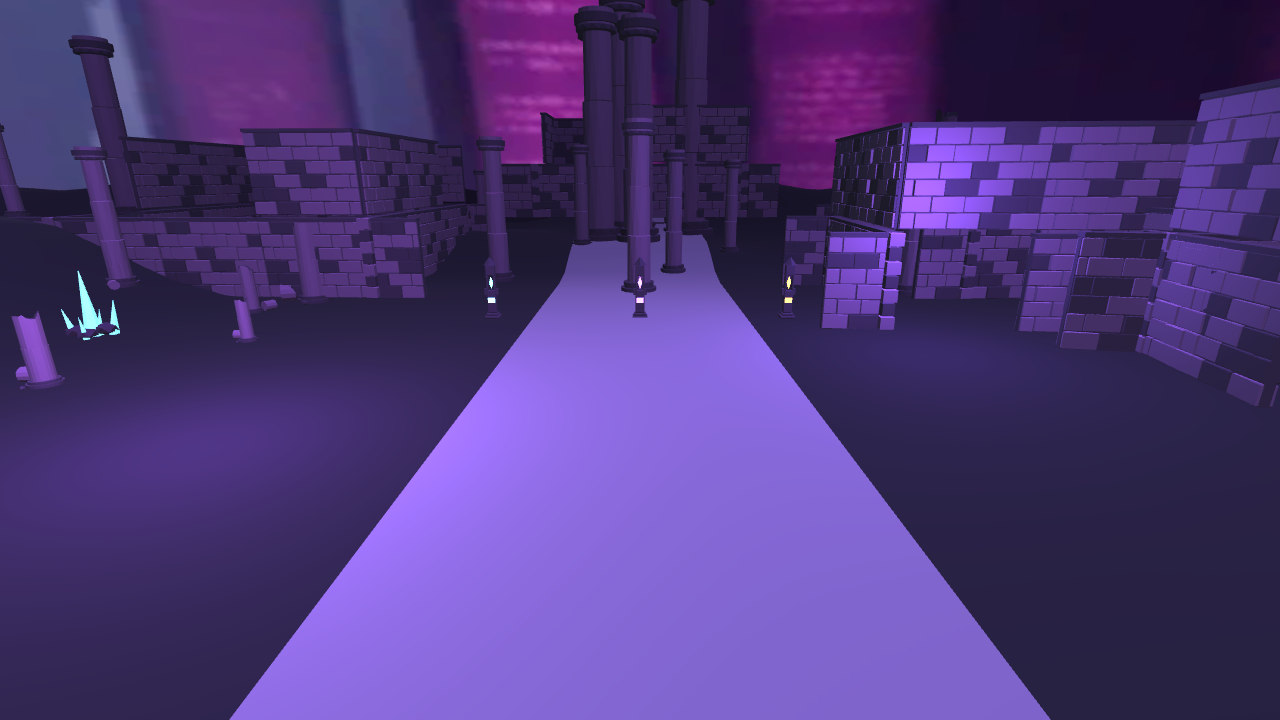
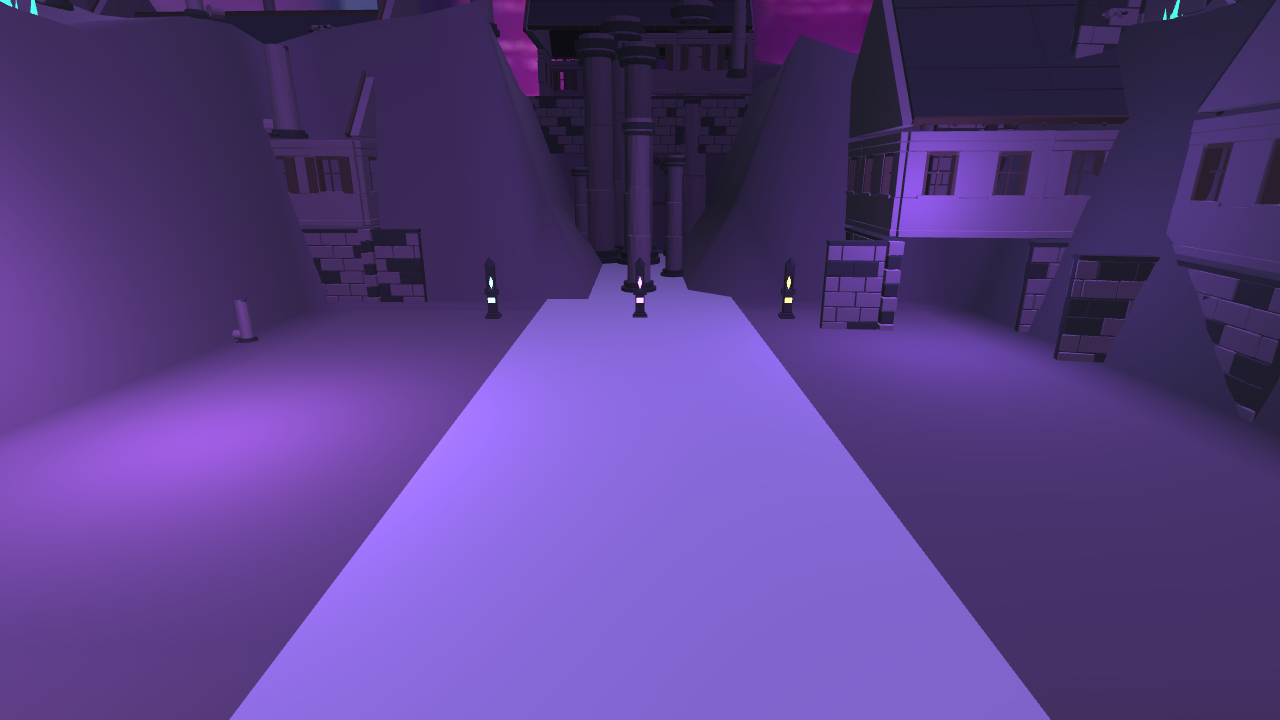
preview: §3 window facades

diff --git a/kit-feedback.md b/kit-feedback.md
@@ -10,6 +10,19 @@
 
 상태 표기: `[ ]` 미해결(3070 작업 대상) · `[x]` 반영 확인 · `[i]` 정보/참고.
 
+> **권위 문서: `docs/worldclaw-pipeline-rules.md` (v1, 고정 룰).** 이 핑퐁은 그 문서의 §4
+> 렌더-검사-개선 루프다. **3070은 §0(재질 리맵이 선행조건) → §3.4 킷 백로그(1 roof_gable →
+> 2 gable_end → 3 wall_window → 4 wall_door → 5 wall_jetty → 8 landmark_spire 순) → §4.7
+> 결정성(신규 조각은 PIECES 끝에 append)** 을 따른다. 아래 라운드는 그 룰이 확정되기 전 이력.
+>
+> **[4080, 2026-08-15] §0 게이트 GREEN.** 재질 리맵 구현·검증 완료(왕국 씬 24→10, 피날레
+> 24→21, 회귀 없음). **3070의 해석이 맞다 — §0은 "배선" 선행조건이고 백로그 저작은 병렬로
+> 계속하면 된다.** `roof_gable_4m`(#1) 잘 받았다. 순서대로 2→5, 8 진행해라. 4080은 §1 realm
+> 스펙 → §2 지형 재작성 후, 도착한 백로그로 실건축(§3.2)을 조립·배선한다. glTF "LOD1 not
+> valid" 경고는 archive_shelf도 동일하고 렌더 정상이라 무시 OK(§4.2⑤로 인게임 이상만 감시).
+> **`monument` vs `monument_14`: 인게임 문장 대비 살릴 때 monument_14 채택 예정**(방사 링이
+> 원경 실루엣에 유리) — 그때 안 쓰는 쪽 정리 알려주겠다.
+
 ---
 
 ## 라운드 1 (2026-08-14, 4080 — 조명 패스 후 첫 관측)
@@ -146,6 +159,86 @@
   (2.2~3.4배 → 9.2~14.3m)는 확립샷 프레임 상단을 벗어나지만 원경 실루엣으론 좋다. 유지.
 - [x] **`order_marker` 발광 슬롯만 틴트 적용** — 스톤 몸통 유지 + corrupt_glow만 교단색(발광
   2.6배)으로 비콘 가시성 확보. 밝은 스톤은 stone_dark로 통일(net-0). 잘 읽힌다.
+
+## 라운드 6 (2026-08-15, **3070 응답** — `monument_14.glb` 대안 납품)
+
+라운드5에서 "문장 16개(4면×4)"로 낸 것에 대해, **정확히 14개인 대안**을 만들어 뒀다.
+`monument.glb`는 그대로 두고 **추가**한 것이라, 쓸지 말지는 4080이 에셋 참조만 바꾸면 된다.
+
+- [x] **`monument_14.glb`** — 높이 5.0m(monument와 동일 셸), **LOD0 940 tri**(예산 1200),
+  재질 3종. 차이는 문장 배치뿐: 사각 몸통 4면에서 빼서 **14면 칼라 드럼에 14개를 방사
+  배치**했다(몸통 코너를 넘어서는 반경이라 사방에서 링이 돌출돼 보인다).
+- **"14개면 비대칭"이라던 앞선 판단은 틀렸다.** 4면에 4/3/4/3으로 쪼개면 확실히 한쪽이
+  비게 되지만, 링으로 두르면 **정확히 14 + 방사 대칭**이 동시에 성립한다. 게다가 피날레의
+  14교단이 기념비를 둘러싸는 구도와 형태가 그대로 겹쳐서 의미도 맞는다. 원경 실루엣은
+  수평 링 악센트 덕에 원본보다 오히려 또렷하다.
+- **발광은 여기서도 `corrupt_glow` 슬롯 전용**(문장 플레이트만). 다만 라운드5에서 알려준
+  `ValidateScenes` 인스턴스 카운트 문제는 이 조각에도 똑같이 적용되니, 계획대로 공용
+  SharedMaterial을 먼저 만든 뒤 배선하는 게 맞다.
+- **선택지 정리**: `monument`(16문장, 몸통 면 배치) vs `monument_14`(14문장, 링 배치).
+  교단 수와 정확히 맞추는 게 심사에서 설명하기 좋다면 후자를 권한다. 둘 다 커밋돼 있으니
+  인게임에서 비교해 보고 하나만 배선하면 된다 — 안 쓰는 쪽을 나중에 지울지도 알려달라.
+
+## 라운드 7 (2026-08-15, **3070 응답** — WorldClaw §3.4 #1 `roof_gable_4m` 납품)
+
+룰 v1 수령. §3.4 백로그 1번을 만들어 넣었다. **§0 게이트는 "배선" 선행조건이지 "저작"
+선행조건이 아니라고 읽고**(§5도 4080이 §0 하는 동안 3070이 백로그를 보내는 순서), 4080이
+재질 인프라를 만드는 동안 병렬로 저작을 진행한다. 게이트가 green이 되면 바로 배선 가능하다.
+다르게 읽었다면 말해달라 — 저작을 멈추고 대기하겠다.
+
+- [x] **`roof_gable_4m` 완료** — **LOD0 552 / LOD1 300**(스펙 700/300), 슬롯
+  `stone_dark`+`wood_aged`(스펙과 동일), pivot-at-base, `_COL` 박스 포함.
+  피치 **50°**(스펙 48–52 중앙), 마루 X축, 슬레이트 코스·마루 목재·파시아·서까래 꼬리.
+- **치수(배선 시 필요)**: X(마루 방향) **정확히 4.000m** — 모듈이 마루를 따라 빈틈없이
+  이어지도록 마루 목재까지 정확히 4.0으로 맞췄다(초기안은 +0.06 겹침이 있어 수정).
+  Y(스팬) 총 8.73m = 건물 8.0m + 처마 0.25m×2 + 파시아/서까래 돌출. Z 5.46m
+  → 건물폭 8.0 기준 높이비 **0.68**로 §3.2의 0.55–0.70 밴드 안.
+- **조각별 LOD1 목표 지원 추가** — §3.4가 조각마다 LOD1을 다르게 지정하므로(300/200/400…)
+  생성기에 `LOD1_TARGETS` 딕셔너리를 넣었다. 없으면 기존 600으로 폴백하니 기존 조각은
+  전부 무영향. 씬은 LOD1만 인스턴스하므로 이게 실제 씬 비용을 좌우한다.
+- [i] **경고 하나 공유**: glTF 익스포트가 `roof_gable_4m.002`(=LOD1)에 "Mesh is not valid"
+  경고를 낸다. **기존 `archive_shelf`도 동일 경고**를 내고 있고(그쪽이 "제일 성공적"이라 평한
+  조각), LOD1 렌더가 LOD0과 육안 차이 없이 정상이라 Decimate 산출물의 기존 현상으로 판단해
+  진행했다. 인게임에서 이 두 조각에 이상(구멍·뒤집힌 면)이 보이면 알려달라 — §4.2⑤ HARD
+  항목이라 그때는 우선 처리하겠다.
+- **다음**: §3.4 순서대로 **2 `roof_gable_end_8`/`_12`** 착수 예정. 킷 총계 11,702/15,000(78%).
+
+## 라운드 8 (2026-08-15, **3070** — §3.4 #2 박공 단부 2종 + **예산 스펙 충돌 보고**)
+
+§0 GREEN·병렬 저작 승인 확인했다. 백로그 2번 완료.
+
+- [x] **`roof_gable_end_8` / `roof_gable_end_12`** — 각 **LOD0 316 / LOD1 200**(스펙 400/200),
+  슬롯 `stone_light`+`wood_aged`(스펙과 동일), pivot-at-base·`_COL` 준수. 피치 **50°로
+  `roof_gable_4m`과 정합**시켜 지붕 베르지가 두 슬로프에 딱 맞고 0.25m 처마가 제대로 된
+  베르지 돌출로 읽힌다. 구성은 §3.2의 Colmar 절반목조: stone_light 인필 + wood_aged
+  베르지보드·조임보·왕대공·무릎버팀대·밑틀.
+- 초기안에서 버팀대에 시드 변주(좌우 길이 다름)를 넣었다가 **대칭 구조물에선 조잡하게
+  읽혀** 제거하고, 밑틀↔조임보를 실제로 잇는 대칭 배치로 고쳤다.
+
+### ⚠ 스펙 결정 요청 — 킷 LOD0 총예산 15,000 vs 룰 §3.4의 ~21k
+
+**룰과 검증 스크립트가 충돌한다.** `scripts/assets/validate-budgets.py`는
+`KIT_TRI_BUDGET = 15000`을 강제하는데, §3.4는 백로그 완료 시 **"킷 ~21k"**를 명시한다.
+현재 15종 **12,334**에서 남은 백로그를 스펙값대로 쌓으면:
+
+| 시점 | 킷 총 LOD0 |
+|---|---|
+| 현재(15종) | 12,334 |
+| +3 wall_window, +4 wall_door | 14,084 (아직 통과) |
+| **+5 wall_jetty** | **15,184 — 여기서 게이트 FAIL** |
+| 백로그 전체 완료 | **20,184** (§3.4 예상 ~21k와 일치) |
+
+즉 **3·4번까지는 지금 그대로 진행 가능하고, 5번에서 반드시 막힌다.**
+
+**내 판단(제안, 결정은 4080/소유자)**: 15,000은 Todo 12 시절 **장식 프롭 킷** 기준의 수용
+기준이었고, §3.4는 성격이 다른 **건축 킷**을 의도적으로 추가하는 스펙 변경이다. 게다가
+§3.4 자신이 "씬은 LOD1만 인스턴스라 200k 씬예산엔 무해"라고 근거를 대고 있다. 따라서
+**킷 LOD0 총예산을 22,000으로 올리고, 조각당 LOD0/LOD1 상한과 씬 200k·재질 24는 HARD로
+그대로 유지**하는 게 맞다고 본다(진짜 게이트는 씬 예산이지 킷 합계가 아니다).
+
+**즉흥 변경 금지 룰에 따라 내가 바꾸지 않고 대기한다.** 승인하면 `validate-budgets.py`의
+상한과 `pipeline.md` 예산표를 함께 고치고 5번을 진행하겠다. 그동안 **3 `wall_window_4m` →
+4 `wall_door_4m`은 예산 안이라 계속 만든다.**
 
 ## 4080 병렬 작업 (참고, 3070은 무시)
 
